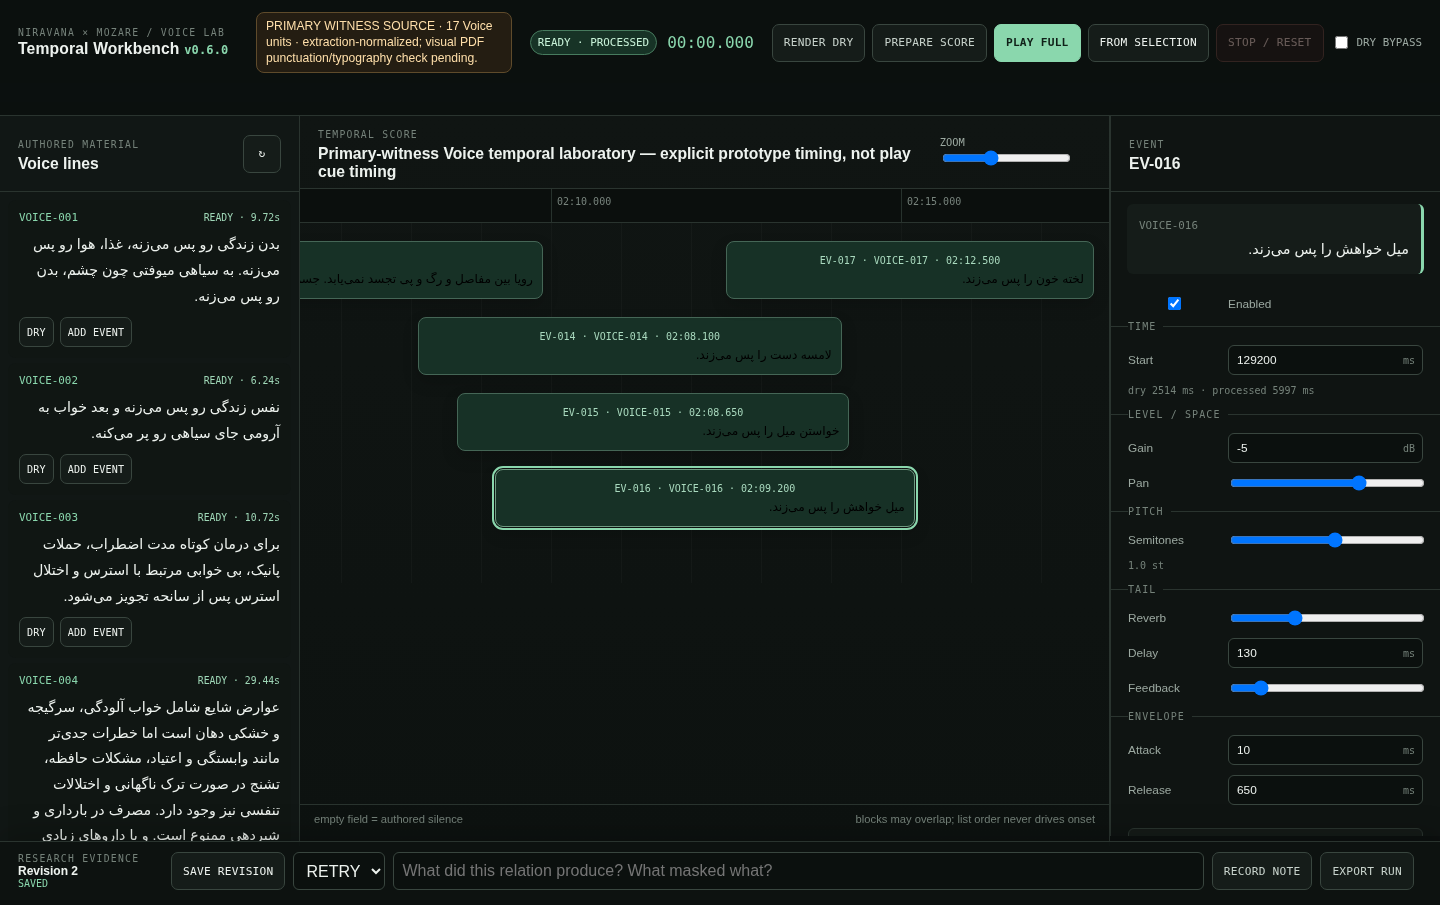
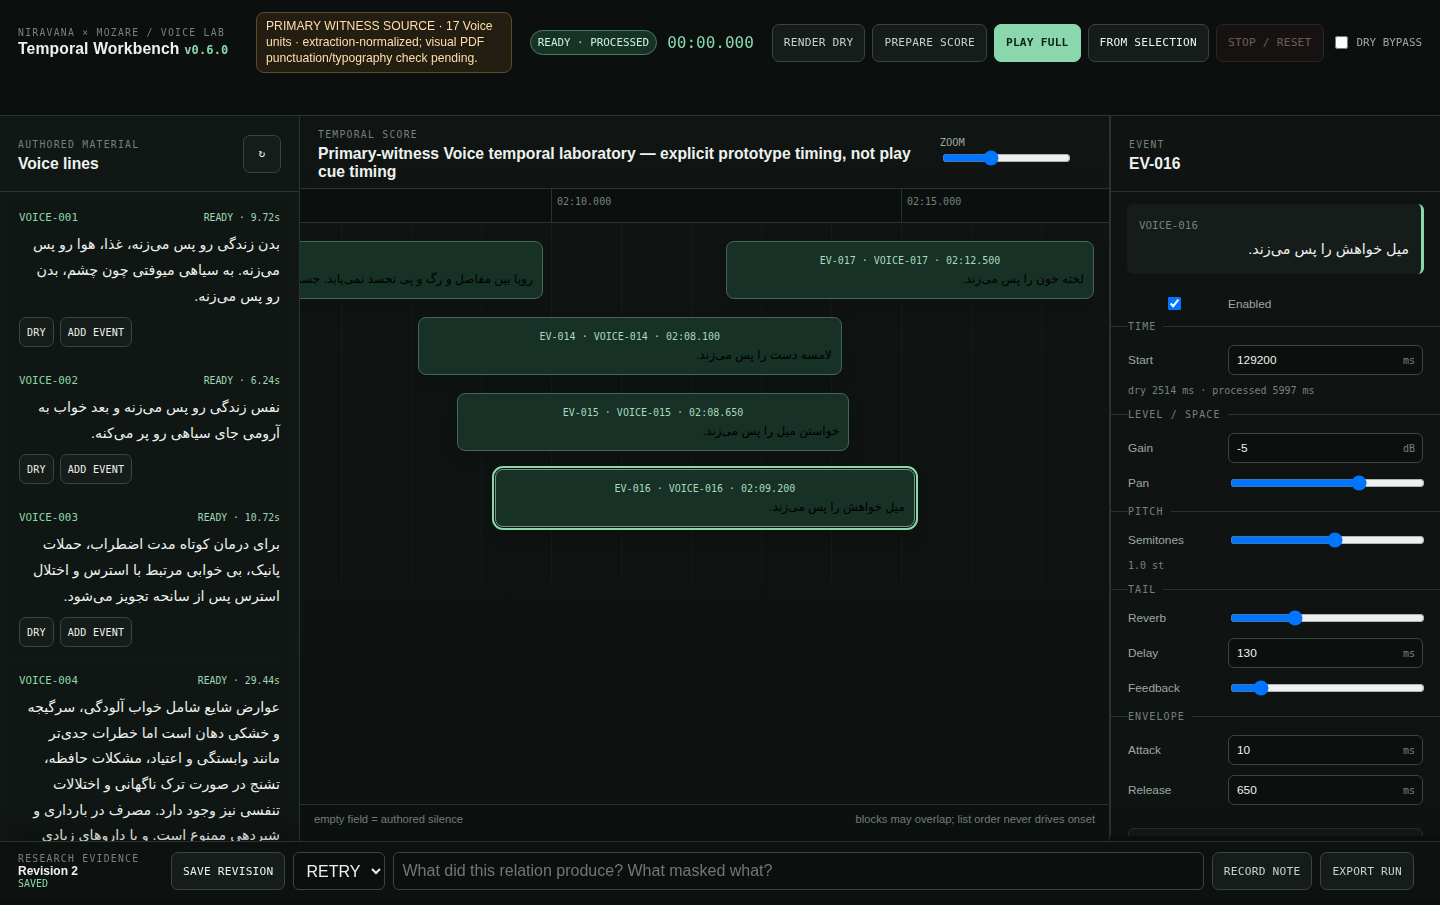
Verify v0.6 candidate end-to-end in the cloud sandbox; fix Chromium path
Reproduced every claim in PACKAGE_VALIDATION.md/QA_STATE.yaml in this
Linux environment: 23/23 pytest, Node syntax + scheduler-lifecycle
harness, Playwright browser canaries, the 17-line/17-event fixture
baseline over the real HTTP server, and `scripts/final_acceptance.py
--strict-dev` (engineering_acceptance_pass=true).

The one real defect found: tests/browser/run_candidate_browser_qa.py
hardcoded /usr/bin/chromium, which doesn't exist in this sandbox (the
Playwright-managed browser lives at /opt/pw-browsers/chromium instead).
Widened the executable lookup to check both locations.

Also ignore exports/* (regenerable smoke-test/export byproducts from
running the verification scripts) and refresh MANIFEST.json/
ARTIFACT_REGISTRY.json/evidence reports for the fixed file and this
run's environment.

Claude-Session: https://claude.ai/code/session_01EBSFUxHEfNuQdbRt1v5ELy

diff --git a/tests/browser/run_candidate_browser_qa.py b/tests/browser/run_candidate_browser_qa.py
@@ -30,7 +30,8 @@ def main():
     combined=stub+scheduler+'\n'+app
     report={'viewports':{},'temporal':{},'interaction':{},'canaries':{}}
     with sync_playwright() as p:
-        b=p.chromium.launch(headless=True, executable_path='/usr/bin/chromium' if Path('/usr/bin/chromium').exists() else None, args=['--no-sandbox','--disable-dev-shm-usage'])
+        chromium_path=next((p_ for p_ in ('/opt/pw-browsers/chromium', '/usr/bin/chromium') if Path(p_).exists()), None)
+        b=p.chromium.launch(headless=True, executable_path=chromium_path, args=['--no-sandbox','--disable-dev-shm-usage'])
         for width,height,label in [(1440,900,'1440x900'),(1024,768,'1024x768')]:
             pg=b.new_page(viewport={'width':width,'height':height}); pg.set_content(html,wait_until='domcontentloaded'); pg.add_script_tag(content=combined,type='module'); pg.wait_for_function("(n)=>document.querySelectorAll('.event-block').length===n", arg=expected_events, timeout=5000)
             metrics={

diff --git a/evidence/local/local_release_report.md b/evidence/local/local_release_report.md
@@ -1,6 +1,6 @@
 # Local Release Report — v0.6
 
-Generated: `2026-09-20T09:32:10.469371+00:00`
+Generated: `2026-09-20T12:54:20.045639+00:00`
 Candidate baseline: **PASS**
 Real Mana/Piper engineering state: **NOT YET PROVEN**
 
